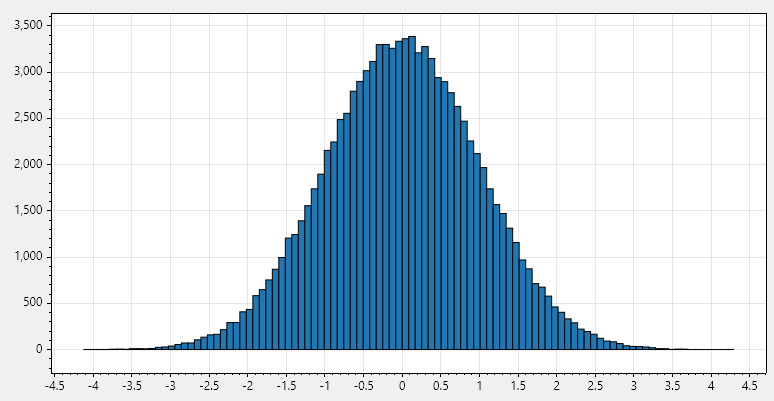
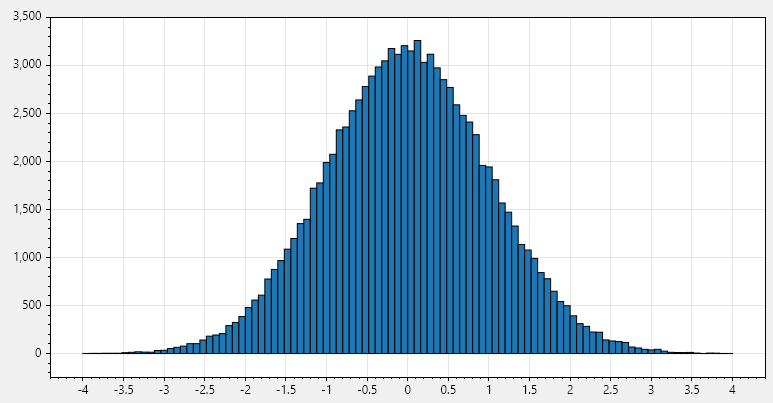
first draft of post 0 and 1

diff --git a/src/_posts/2024-12-06-PGF-01.md b/src/_posts/2024-12-06-PGF-01.md
@@ -211,36 +211,61 @@ var dist =
 
 ## Manipulating distributions (dist as a monad)
 
-
-
-TODO talk about how you can manipulate distributions completely functionally - I
-like this abstraction
-
-functor and monad to get normal distribution
+Let's make things a little more complicated. We can use the [Box-Muller
+algorithm](https://en.wikipedia.org/wiki/Box%E2%80%93Muller_transform) to
+generate a normal distribution from two uniformly-distributed values.
 
 ```cs
 public static class Normal
 {
-    public static IDistribution<double> New()
+    public static IDistribution<double> New() => new NormalDistribution();
+
+    private class NormalDistribution : IDistribution<double>
     {
-        var uniformDist = Uniform.New(0d, 1d);
-        return
-            from u1 in uniformDist
-            from u2 in uniformDist
-            select
+        public double Sample<TRng>(TRng rng) where TRng : notnull, IRng
+        {
+            var uniformDist = Uniform.New(0d, 1d);
+            
+            var u1 = uniformDist.Sample(rng);
+            var u2 = uniformDist.Sample(rng);
+
+            return 
                 Math.Sqrt(-2.0 * Math.Log(u1))
                 * Math.Cos(2.0 * Math.PI * u2);
+        }
     }
 }
 ```
 
-here's the histogram:
+However, we can make things simpler by using the `SelectMany()` method. This is
+again similar to `SelectMany()` in LINQ, allowing you to take from multiple
+distributions and flatten the results. This time I think the code is definitely
+better off using query syntax than method syntax.
+
+```cs
+public static class Normal
+{
+    public static IDistribution<double> New() =>
+        from u1 in Uniform.New(0d, 1d)
+        from u2 in Uniform.New(0d, 1d)
+        select
+            Math.Sqrt(-2.0 * Math.Log(u1))
+            * Math.Cos(2.0 * Math.PI * u2);
+}
+```
+
+We can again plot this as a histogram:
 
 ![Histogram of a normal
 distribution](/assets/images/2024-12-06-PGF-01/normal.png)
 
-this is encouraging! we e
+A very satisfying bell curve!
 
 ## Conclusion
 
-something about the next post
+We've made a lot of progress in this post; we're able to select random numbers
+corresponding to various probability distributions, and we can use a handful of
+helpful methods to compose distributions to make new ones.
+
+However, we can't really say we've done any procedural generation yet. In the
+next post we'll start using some stochastic algorithms to generate mazes.

diff --git a/src/_posts/todo.md b/src/_posts/todo.md
@@ -4,9 +4,6 @@
 
 ## Post 1
 
-- write monad code in repo
-- write monad bit in post
-- write conclusion
 - review it
 
 ## Post 2 - mazes
